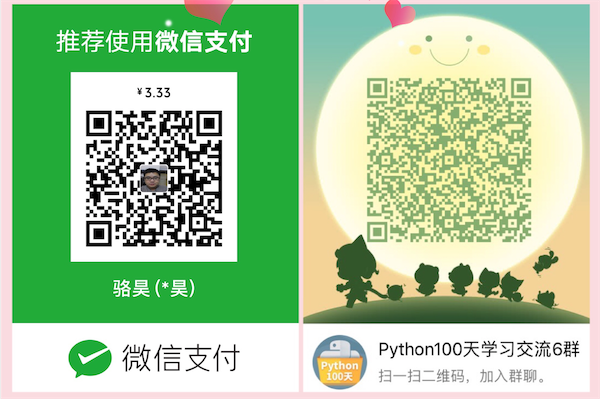
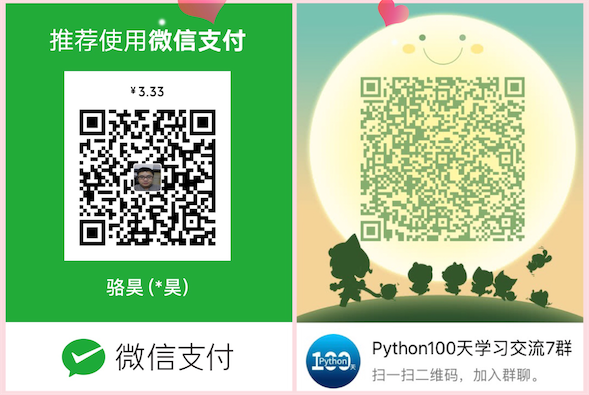
更新了部分文档和QQ群信息

diff --git a/README.md b/README.md
@@ -2,7 +2,7 @@
 
 > 作者：骆昊
 >
-> 说明：最近有很多想学习Python的小伙伴申请单独加我微信和QQ，因为我自己平时也很忙，没办法一一解答大家的问题，我创建了**Python100天学习交流6群**（之前的两个2000人群1群和2群、三个1000人群3群、4群、5群已经全部满员），群号为**837590310**，二维码在下方。我的同事和朋友也在这个群里，他们很多都是优秀的Python开发者，有丰富的商业项目经验，我们在时间充足的时候会及时解答大家的问题，从Python语言入门到Web应用开发，从数据分析到机器学习，每个领域都有技术大咖为大家解惑答疑。以后我们争取每周做一次视频直播，以专题的形式分享Python开发的点点滴滴，同时还会不定期的举办线上和线下的技术交流和分享活动，小伙伴们可以加群进行交流。创作不易，感谢各位小伙伴的打赏支持，也感谢**北京千锋互联科技有限公司Python教学部**对QQ群和[公开课](https://ke.qq.com/course/406954)的支持。
+> 说明：最近有很多想学习Python的小伙伴申请单独加我微信和QQ，因为我自己平时也很忙，没办法一一解答大家的问题，我创建了**Python100天学习交流7群**（之前的三个2000人群1群、2群、6群、三个1000人群3群、4群、5群已经全部满员），群号为**784430256**，二维码在下方。我的同事和朋友也在这个群里，他们很多都是优秀的Python开发者，有丰富的商业项目经验，我们在闲暇的时候会为大家解答问题，内容包括但不限于Python语言基础、Web后端开发、网络数据采集、数据分析和机器学习。我们希望这个群能够慢慢汇集资深人士和行业大咖，营造一个相对纯粹的技术社区。以后我们争取每周做一次视频直播，以专题的形式分享Python开发的点点滴滴，同时还会不定期的举办线上和线下的技术交流和分享活动，小伙伴们可以加群进行交流。创作不易，感谢各位小伙伴的打赏支持，这些钱不会用于购买咖啡而是捐赠给支教组织。感谢**北京千锋互联科技有限公司Python教学部**对[公开课](https://ke.qq.com/course/406954)的支持。
 
 ![](./res/python_100_days_qq_group.png)
 

diff --git a/Day01-15/06.函数和模块的使用.md b/Day01-15/06.函数和模块的使用.md
@@ -31,7 +31,7 @@ print(fm // fn // fmn)
 
 ### 函数的作用
 
-不知道大家是否注意到，在上面的代码中，我们做了3次求阶乘，这样的代码实际上就是重复代码。编程大师Martin Fowler先生曾经说过：“代码有很多种坏味道，重复是最坏的一种！”，要写出高质量的代码首先要解决的就是重复代码的问题。对于上面的代码来说，我们可以将计算阶乘的功能封装到一个称之为“函数”的功能模块中，在需要计算阶乘的地方，我们只需要“调用”这个“函数”就可以了。
+不知道大家是否注意到，在上面的代码中，我们做了3次求阶乘，这样的代码实际上就是重复代码。编程大师*Martin Fowler*先生曾经说过：“**代码有很多种坏味道，重复是最坏的一种！**”，要写出高质量的代码首先要解决的就是重复代码的问题。对于上面的代码来说，我们可以将计算阶乘的功能封装到一个称之为“函数”的功能模块中，在需要计算阶乘的地方，我们只需要“调用”这个“函数”就可以了。
 
 ### 定义函数
 

diff --git a/Day01-15/05.构造程序逻辑.md b/Day01-15/05.构造程序逻辑.md
@@ -1,6 +1,6 @@
 ## 构造程序逻辑
 
-> 说明：第05天内容请参考code目录下Day05中的代码。
+分支和循环结构会帮助我们将程序中逻辑建立起来，将来我们的程序无论简单复杂，都是由顺序结构、分支结构、循环结构构成的。对于编程语言的初学者来说，首先要锻炼的是将人类自然语言描述的解决问题的步骤和方法翻译成代码的能力，其次就是熟练的运用之前学过的运算符、表达式以及最近的两个章节讲解的分支结构和循环结构的知识。有了这些基本的能力才能够通过计算机程序去解决各种各样的现实问题。所以，开始做练习吧！
 
 ### 练习清单
 
@@ -9,3 +9,5 @@
 3. [“百钱百鸡”](https://baike.baidu.com/item/%E7%99%BE%E9%B8%A1%E7%99%BE%E9%92%B1/5857320)问题。
 4. 生成[“斐波拉切数列”](https://baike.baidu.com/item/%E6%96%90%E6%B3%A2%E9%82%A3%E5%A5%91%E6%95%B0%E5%88%97/99145)。
 5. Craps赌博游戏。
+
+> **提示**：练习的参考答案在code/Day05目录下。

diff --git a/Day66-75/66.网络爬虫和相关工具.md b/Day66-75/66.网络爬虫和相关工具.md
@@ -100,7 +100,7 @@ HTTP响应（响应行+响应头+空行+消息体）：
 
 ![](./res/http-response.png)
 
-> 说明：但愿这两张如同泛黄的照片般的截图帮助你大概的了解到HTTP是一个怎样的协议。 
+> 说明：但愿这两张如同泛黄照片般的截图帮助你大概的了解到HTTP是一个怎样的协议。 
 
 #### 相关工具
 
